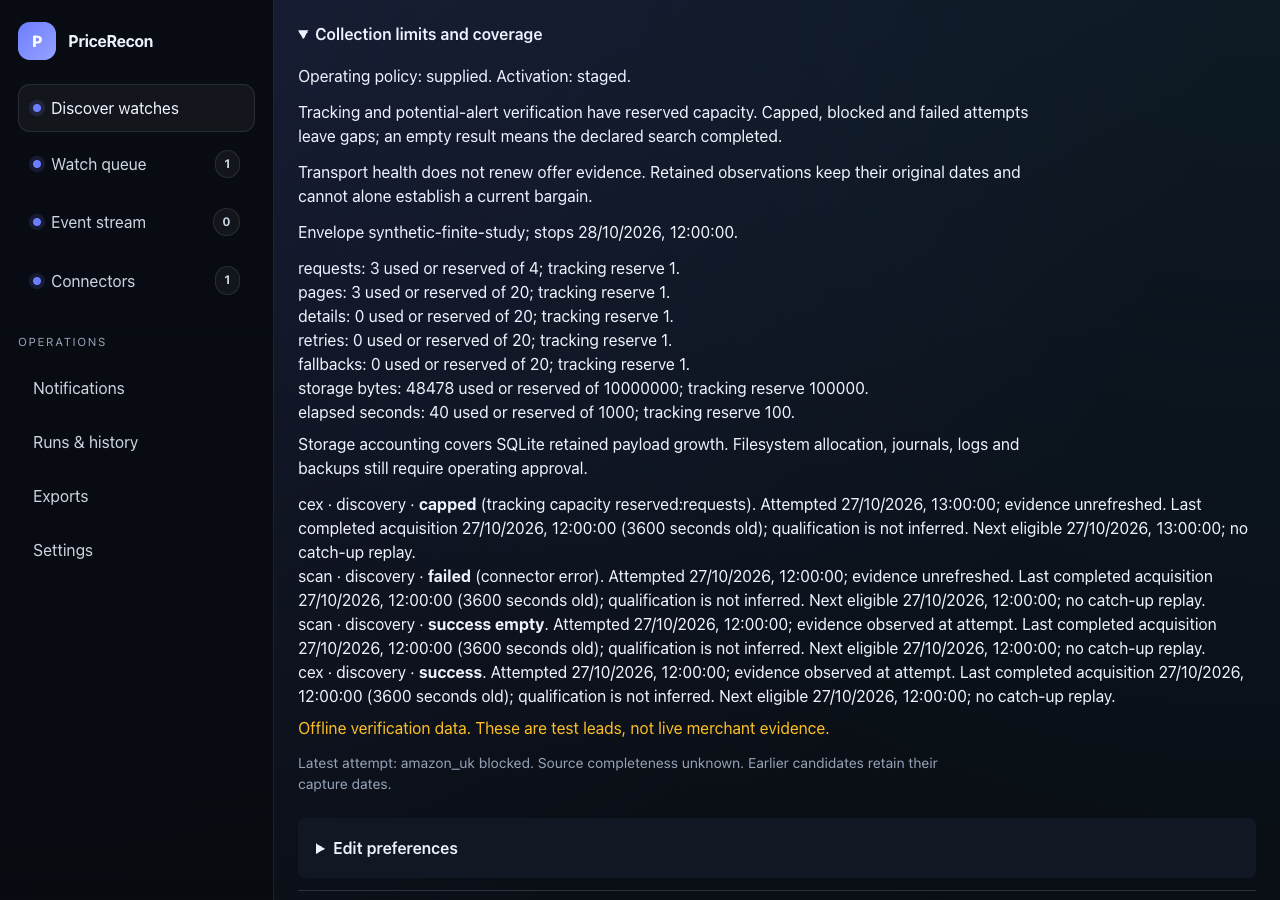
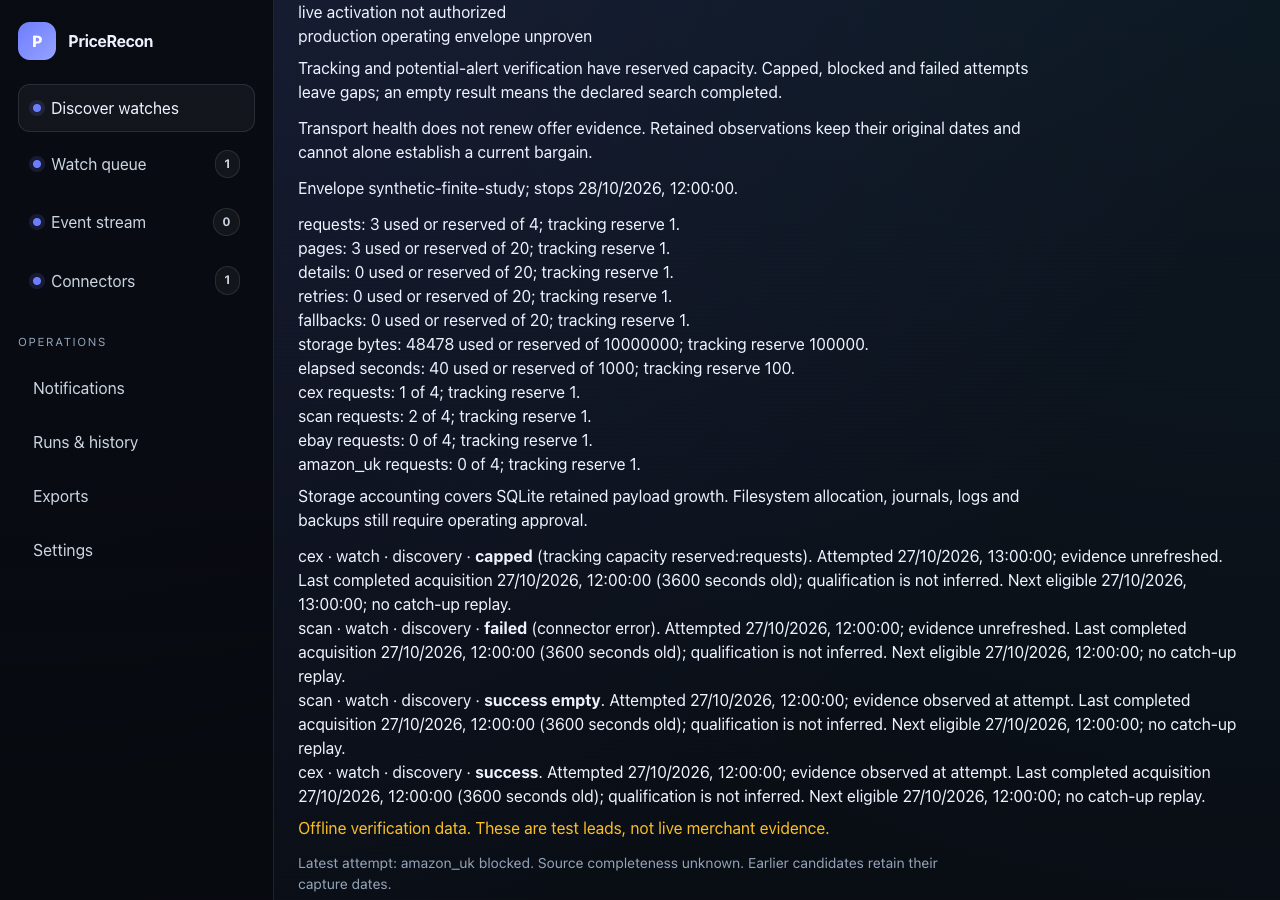
Preserve withholding reasons and record merged collection UI proof

Changed region(s): [[0.2188, 0.0, 0.9688, 0.9956]]

diff --git a/src/pricerecon/core/acquisition.py b/src/pricerecon/core/acquisition.py
@@ -135,6 +135,8 @@ async def acquire_sources(
                     f"Connector '{connector_id}' not found in registry. "
                     f"Available: {sorted(all_connectors.keys())}"
                 )
+            if budget and getattr(connector_class, "collection_accounting", None) not in {"http_v1", "controlled_v1"}:
+                raise AdmissionDenied("attempt_accounting_unavailable", state="blocked")
             # Build connector kwargs: merge config-file defaults, env-level credentials,
             # and per-watch config. Per-watch config takes precedence.
             config_defaults = dict(connector_defaults.get(connector_id, {}) or {})
@@ -238,8 +240,6 @@ async def acquire_sources(
                     connector_id=connector_id,
                     detail={"error": str(exc), "error_type": exc.__class__.__name__},
                 ) from exc
-            if budget and getattr(connector, "collection_accounting", None) not in {"http_v1", "controlled_v1"}:
-                raise AdmissionDenied("attempt_accounting_unavailable", state="blocked")
             if budget:
                 async with asyncio.timeout_at(deadline):
                     await connector.initialize()

diff --git a/src/pricerecon/db/tracking.py b/src/pricerecon/db/tracking.py
@@ -197,7 +197,12 @@ def project_tracking(connection: sqlite3.Connection, intent: ExactTracking) -> E
     if has_delivery_claim(connection, intent.id):
         reasons.append("delivery_in_flight_or_interrupted")
     if reasons:
-        intent.assessment = assessment.model_copy(update={"state": "withheld", "reasons": reasons})
+        intent.assessment = assessment.model_copy(update={
+            "state": "withheld",
+            "reasons": list(dict.fromkeys(
+                (assessment.reasons if assessment.state == "withheld" else []) + reasons
+            )),
+        })
     return intent
 
 

diff --git a/docs/testing/watch-collection.md b/docs/testing/watch-collection.md
@@ -136,7 +136,8 @@ The accepted operating-envelope research/resolution still applies.
 Run from this checkout with the existing interpreter:
 
 ```sh
-PYTHONDONTWRITEBYTECODE=1 PYTHONPATH="$PWD/src:$PWD" \
+env -i PATH=/Users/jay/.nvm/versions/node/v24.14.1/bin:/usr/bin:/bin \
+  PYTHONDONTWRITEBYTECODE=1 PYTHONPATH="$PWD/src:$PWD" \
   /Users/jay/.t3/worktrees/pricerecon/t3-7260bb2e/.venv/bin/python -m pytest -q \
   tests/test_collection_workflow.py tests/test_monitoring_workflow.py \
   tests/test_discovery_workflow.py tests/test_qualification_workflow.py \
